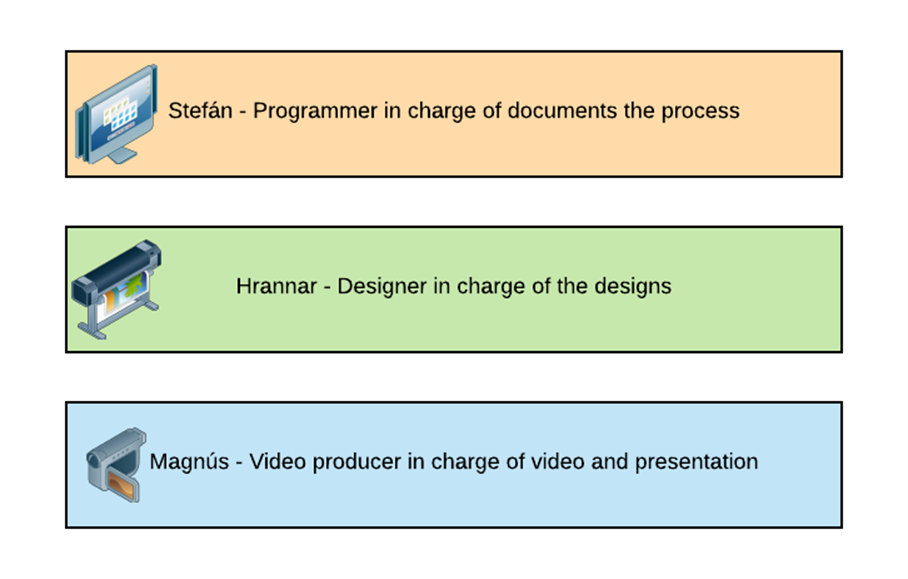
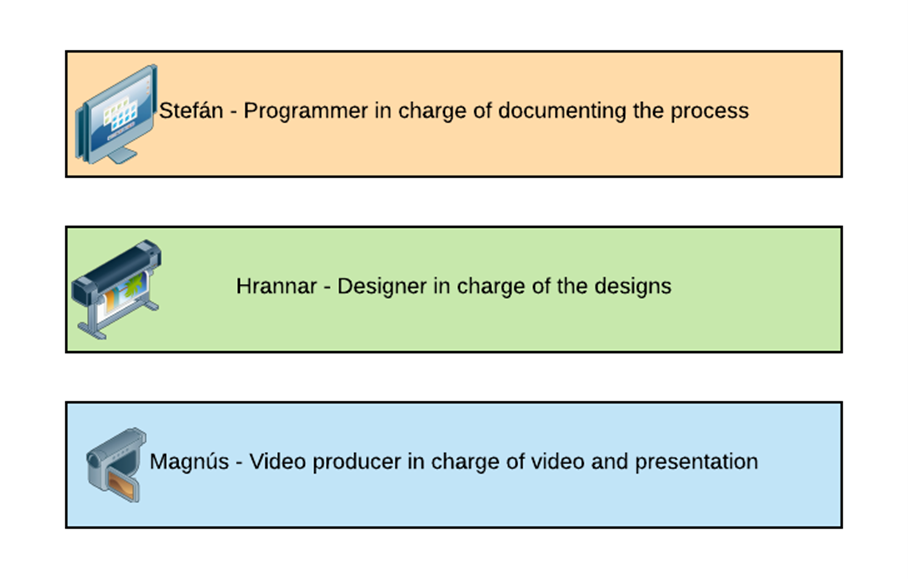
minor changes

Changed region(s): [[0.1542, 0.1554, 0.8326, 0.2176]]

diff --git a/my-contribution.html b/my-contribution.html
@@ -43,10 +43,31 @@
 								<header class="major">
 									<span class="date">April 21, 2021</span>
 									<h1>Final project - my contribution<br /></h1>
-									<p>Kynning á efni.</p>
+									<p>A part of the final project is to document my contribution to the project.</p>
+                                    <p style="text-align:center;"><img src="images/matrix.jpg" height="70%" width="70%" alt="" />
 								</header>
                                 
-								<p style="text-align:center;"><img src="images/3d-printing.jpg" height="70%" width="70%" alt="" />
+								                                    
+                                <p>We divided the team roles when we started to discuss the project.</p>
+                                <p style="text-align:center;"><img src="images/roles.png" height="70%" width="70%" alt="" />
+                                <p>As you can see, I took on the role of the programmer and was responsible for documenting all the process of the projesc on a team website that I created. I decided to host the teams website under my own website for simplicity, if you however click on the teams website, you can not click on anything to return to my website.</p>
+                                <p>You enter the teams website by clicking on "Final project gallery".</p>
+                                <p style="text-align:center;"><img src="images/team-website.PNG" height="50%" width="50%" alt="" />
+                                
+                                <p>I could use a lot of knowledge that I had previously aquired to make the website. I still used the same template from <a href="https://html5up.net">HTML5UP</a> as I used on my own website. That template is called "Massively"</p>
+                                
+                                <p>I still used <a href="http://brackets.io/">Brackets</a> to edit the HTML code which I got from HTML5UP like I did for my own website.</p>
+                                
+                                <p>One thing thet I did differently now as opposed to when I made my own website was that I did not use "Git" to upload the HTML files to my github. Instead I decided to use the app called <a href="https://desktop.github.com/">Github desktop</a>. </p>
+                                
+                                <p>Github desktop makes the process of uploading the HTML code to my github much simpler. I just have to connect the program to the folder in my computer where the files are stored.</p>
+                                <p>After I make any changes, such as changing the code or add new photos to the folder, I can see the changes in the app. Then I just have to make an explenation for the changes and click on "commit to main".</p>
+                                <p style="text-align:center;"><img src="images/desktop_app.PNG" height="70%" width="70%" alt="" />
+                                
+                                
+                                
+                                
+                                <p>I worked closely with bot Hrannar and Magnús, and I was constantly taking screen captures to use on the website so it would not be forgotten how we designed the project</p>
                                     
 
                                 
